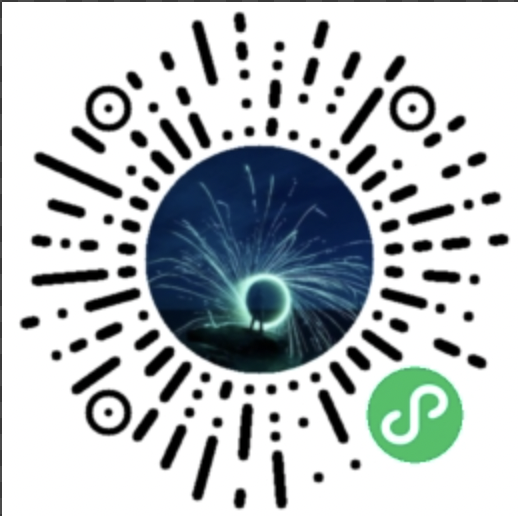
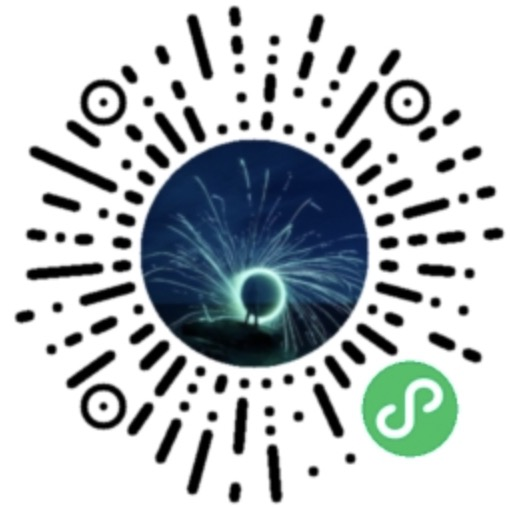
modify

diff --git a/.history/README_20230730113125.md b/.history/README_20230730113125.md
@@ -10,8 +10,7 @@
 * :white_check_mark: 可视化安装K8s集群
 * :white_check_mark: 可视化安装K8s云原生服务组件
 
-
-<img src="/images/v2-b42b5912a9cc7ca3d488a7bd0f1fc576_r.jpeg" width = "250" height = "250"  /><br>
+<img src="https://pic3.zhimg.com/80/v2-b42b5912a9cc7ca3d488a7bd0f1fc576_1440w.webp" width = "250" height = "250"  /><br>
 
 
 ***    
@@ -30,8 +29,7 @@
 #### 微信小程序 - [奇怪魔力推荐](https://github.com/KEYIERYI/DevProcess/blob/main/WxProgram.md)
 #### 功能：
 * :white_check_mark: 推荐一些有趣好玩的微信小程序
-* :white_check_mark: 免费为个人开发者推广展示您的小程序
-* :white_check_mark: 如果您有开发的微信小程序, 可以在小程序界面上传您的小程序
+* :white_check_mark: 如果您有开发的微信小程序, 可以后台留言上传小程序
 
-<img src="/images/WX20230310-233342%402x.png" width = "250" height = "250"  />
-<img src="/images/WechatIMG638.jpg" width = "330" height = "250"  /><br>
+<img src="/images/WX20230310-233342%402x.png" width = "250" height = "250"  /><br>
+<img src="/images/WechatIMG638.jpg" width = "250" height = "250"  /><br>

diff --git a/.history/README_20230730113104.md b/.history/README_20230730113104.md
@@ -10,8 +10,7 @@
 * :white_check_mark: 可视化安装K8s集群
 * :white_check_mark: 可视化安装K8s云原生服务组件
 
-
-<img src="/images/v2-b42b5912a9cc7ca3d488a7bd0f1fc576_r.jpeg" width = "250" height = "250"  /><br>
+<img src="https://pic3.zhimg.com/80/v2-b42b5912a9cc7ca3d488a7bd0f1fc576_1440w.webp" width = "250" height = "250"  /><br>
 
 
 ***    
@@ -30,8 +29,7 @@
 #### 微信小程序 - [奇怪魔力推荐](https://github.com/KEYIERYI/DevProcess/blob/main/WxProgram.md)
 #### 功能：
 * :white_check_mark: 推荐一些有趣好玩的微信小程序
-* :white_check_mark: 免费为个人开发者推广展示您的小程序
-* :white_check_mark: 如果您有开发的微信小程序, 可以在小程序界面上传您的小程序
+* :white_check_mark: 如果您有开发的微信小程序, 可以后台留言上传小程序
 
-<img src="/images/WX20230310-233342%402x.png" width = "250" height = "250"  />
-<img src="/images/WechatIMG638.jpg" width = "330" height = "250"  /><br>
+<img src="/images/WX20230310-233342%402x.png" width = "250" height = "250"  /><br>
+<img src="/images/" width = "250" height = "250"  /><br>

diff --git a/.history/README_20230730113340.md b/.history/README_20230730113340.md
@@ -11,7 +11,9 @@
 * :white_check_mark: 可视化安装K8s云原生服务组件
 
 
-<img src="/images/v2-b42b5912a9cc7ca3d488a7bd0f1fc576_r.jpeg" width = "250" height = "250"  /><br>
+<img src="/images/WechatIMG638.jpg" width = "250" height = "250"  /><br>
+
+<img src="https://pic3.zhimg.com/80/v2-b42b5912a9cc7ca3d488a7bd0f1fc576_1440w.webp" width = "250" height = "250"  /><br>
 
 
 ***    
@@ -30,8 +32,7 @@
 #### 微信小程序 - [奇怪魔力推荐](https://github.com/KEYIERYI/DevProcess/blob/main/WxProgram.md)
 #### 功能：
 * :white_check_mark: 推荐一些有趣好玩的微信小程序
-* :white_check_mark: 免费为个人开发者推广展示您的小程序
-* :white_check_mark: 如果您有开发的微信小程序, 可以在小程序界面上传您的小程序
+* :white_check_mark: 如果您有开发的微信小程序, 可以后台留言上传小程序
 
 <img src="/images/WX20230310-233342%402x.png" width = "250" height = "250"  />
-<img src="/images/WechatIMG638.jpg" width = "330" height = "250"  /><br>
+<img src="/images/WechatIMG638.jpg" width = "250" height = "250"  /><br>

diff --git a/.history/README_20230730113146.md b/.history/README_20230730113146.md
@@ -10,8 +10,7 @@
 * :white_check_mark: 可视化安装K8s集群
 * :white_check_mark: 可视化安装K8s云原生服务组件
 
-
-<img src="/images/v2-b42b5912a9cc7ca3d488a7bd0f1fc576_r.jpeg" width = "250" height = "250"  /><br>
+<img src="https://pic3.zhimg.com/80/v2-b42b5912a9cc7ca3d488a7bd0f1fc576_1440w.webp" width = "250" height = "250"  /><br>
 
 
 ***    
@@ -30,8 +29,7 @@
 #### 微信小程序 - [奇怪魔力推荐](https://github.com/KEYIERYI/DevProcess/blob/main/WxProgram.md)
 #### 功能：
 * :white_check_mark: 推荐一些有趣好玩的微信小程序
-* :white_check_mark: 免费为个人开发者推广展示您的小程序
-* :white_check_mark: 如果您有开发的微信小程序, 可以在小程序界面上传您的小程序
+* :white_check_mark: 如果您有开发的微信小程序, 可以后台留言上传小程序
 
 <img src="/images/WX20230310-233342%402x.png" width = "250" height = "250"  />
-<img src="/images/WechatIMG638.jpg" width = "330" height = "250"  /><br>
+<img src="/images/WechatIMG638.jpg" width = "250" height = "250"  /><br>

diff --git a/.history/README_20230730113425.md b/.history/README_20230730113425.md
@@ -30,8 +30,7 @@
 #### 微信小程序 - [奇怪魔力推荐](https://github.com/KEYIERYI/DevProcess/blob/main/WxProgram.md)
 #### 功能：
 * :white_check_mark: 推荐一些有趣好玩的微信小程序
-* :white_check_mark: 免费为个人开发者推广展示您的小程序
-* :white_check_mark: 如果您有开发的微信小程序, 可以在小程序界面上传您的小程序
+* :white_check_mark: 如果您有开发的微信小程序, 可以后台留言上传小程序
 
 <img src="/images/WX20230310-233342%402x.png" width = "250" height = "250"  />
-<img src="/images/WechatIMG638.jpg" width = "330" height = "250"  /><br>
+<img src="/images/WechatIMG638.jpg" width = "250" height = "250"  /><br>

diff --git a/.history/README_20230730113457.md b/.history/README_20230730113457.md
@@ -30,8 +30,7 @@
 #### 微信小程序 - [奇怪魔力推荐](https://github.com/KEYIERYI/DevProcess/blob/main/WxProgram.md)
 #### 功能：
 * :white_check_mark: 推荐一些有趣好玩的微信小程序
-* :white_check_mark: 免费为个人开发者推广展示您的小程序
-* :white_check_mark: 如果您有开发的微信小程序, 可以在小程序界面上传您的小程序
+* :white_check_mark: 如果您有开发的微信小程序, 可以后台留言上传小程序
 
 <img src="/images/WX20230310-233342%402x.png" width = "250" height = "250"  />
-<img src="/images/WechatIMG638.jpg" width = "330" height = "250"  /><br>
+<img src="/images/WechatIMG638.jpg" width = "250" height = "250"  /><br>

diff --git a/.history/WxProgram_20230730114604.md b/.history/WxProgram_20230730114604.md
@@ -1,0 +1,11 @@
+### 微信小程序 
+
+
+
+<img src="/images/WX20230310-233342%402x.png" width = "250" height = "250"  />
+
+<img src="/images/WechatIMG638.jpg" width = "250" height = "250"  /><br>
+
+<img src="/images/4511689924941_.pic.jpg" width = "250" height = "250"  /><br>
+
+<img src="/images/4521689924943_.pic.jpg" width = "250" height = "250"  /><br>

diff --git a/.history/README_20230730113716.md b/.history/README_20230730113716.md
@@ -34,4 +34,4 @@
 * :white_check_mark: 如果您有开发的微信小程序, 可以在小程序界面上传您的小程序
 
 <img src="/images/WX20230310-233342%402x.png" width = "250" height = "250"  />
-<img src="/images/WechatIMG638.jpg" width = "330" height = "250"  /><br>
+<img src="/images/WechatIMG638.jpg" width = "250" height = "250"  /><br>

diff --git a/.history/WxProgram_20230730114635.md b/.history/WxProgram_20230730114635.md
@@ -1,0 +1,9 @@
+### 微信小程序 
+
+
+
+<img src="/images/WechatIMG638.jpg" width = "250" height = "250"  /><br>
+
+<img src="/images/4521689924943_.pic.jpg" width = "250" height = "250"  /><br>
+
+<img src="/images/4511689924941_.pic.jpg" width = "250" height = "250"  /><br>

diff --git a/.history/WxProgram_20230730114527.md b/.history/WxProgram_20230730114527.md
@@ -1,0 +1,7 @@
+### 微信小程序 
+
+
+
+<img src="/images/WX20230310-233342%402x.png" width = "250" height = "250"  />
+<img src="/images/WechatIMG638.jpg" width = "250" height = "250"  /><br>
+<img src="/images/4511689924941_.pic.jpg" width = "250" height = "250"  /><br>

diff --git a/.history/WxProgram_20230730114457.md b/.history/WxProgram_20230730114457.md
@@ -1,0 +1,7 @@
+### 微信小程序 
+
+
+
+<img src="/images/WX20230310-233342%402x.png" width = "250" height = "250"  />
+<img src="/images/WechatIMG638.jpg" width = "250" height = "250"  /><br>
+<img src="/images/" width = "250" height = "250"  /><br>

diff --git a/.history/WxProgram_20230730114045.md b/.history/WxProgram_20230730114045.md
@@ -1,0 +1,6 @@
+### 微信小程序 
+
+
+
+<img src="/images/WX20230310-233342%402x.png" width = "250" height = "250"  />
+<img src="/images/WechatIMG638.jpg" width = "250" height = "250"  /><br>
